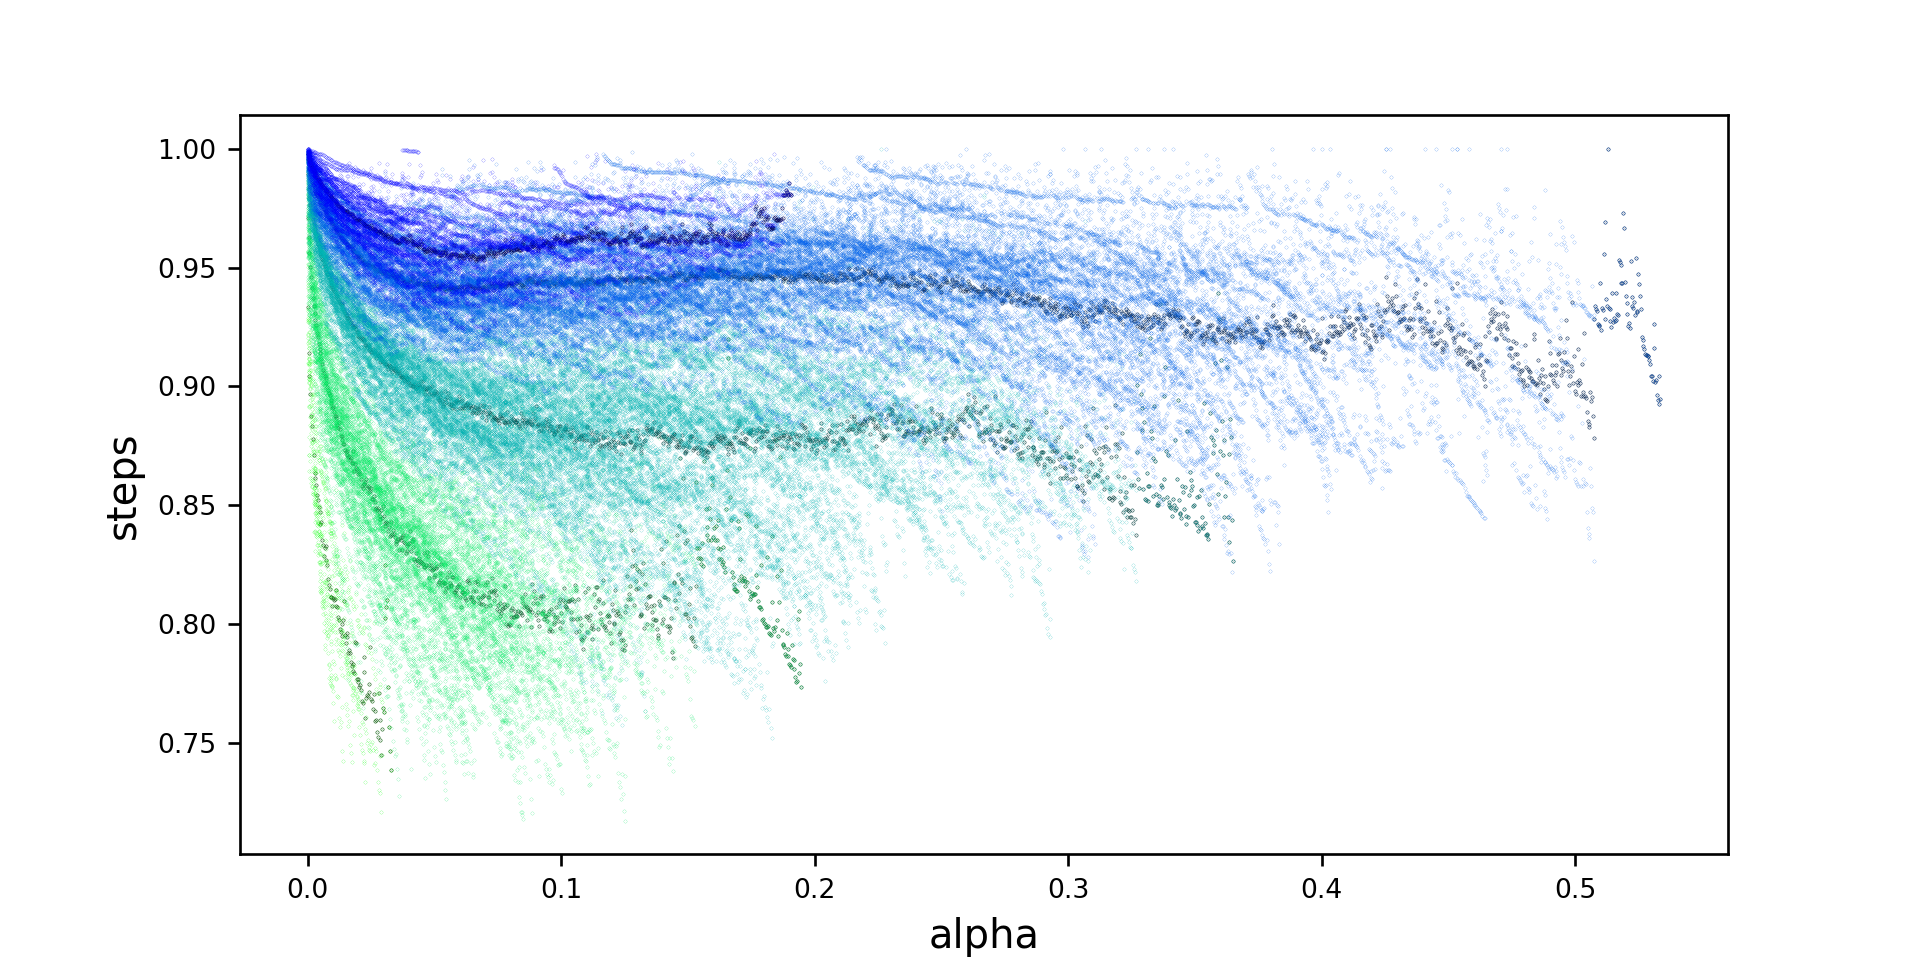
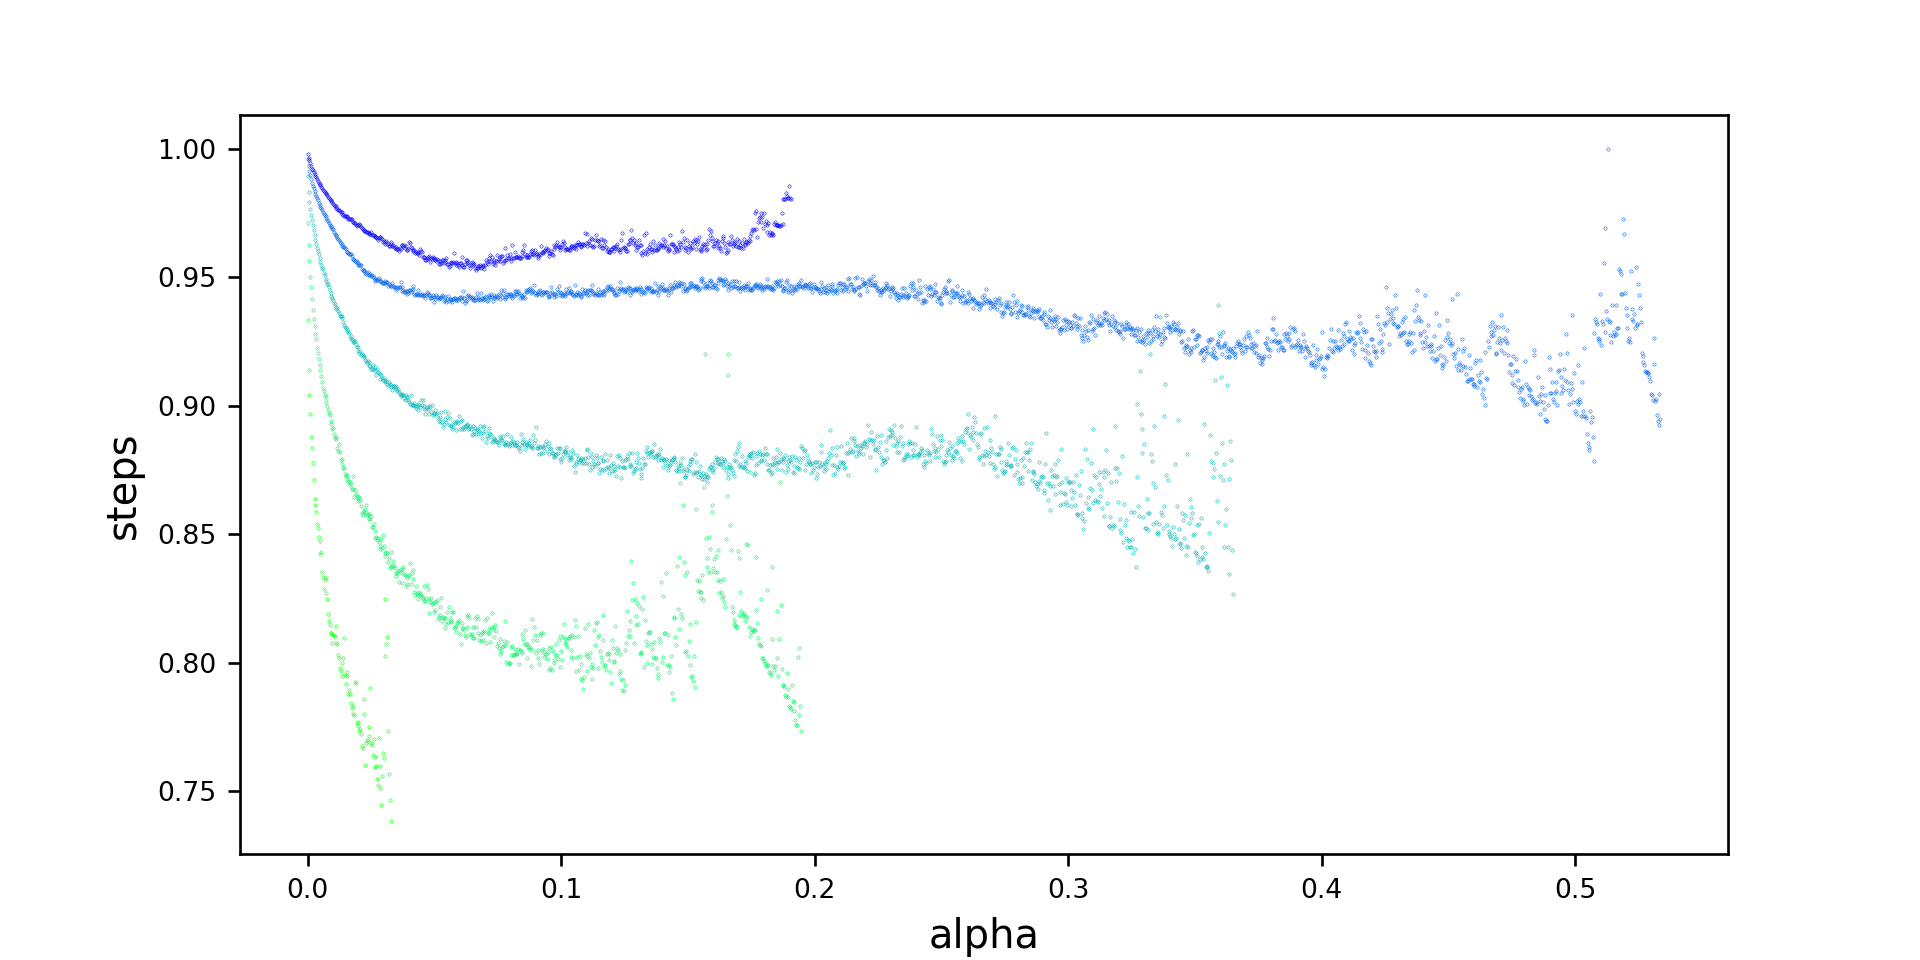
split the rainbow

diff --git a/plot/plot_survey_sigma_post.py b/plot/plot_survey_sigma_post.py
@@ -37,74 +37,120 @@ for M in range(M_min, M_max + N/10, N/10):
 
 series_count -= 1
 
+RAINBOW=False
+
 # lines per M, all together
 set_settings()
+if RAINBOW:
+  color_counter = 0
+  for M in range(M_min, M_max + N/10, N/10):
+    if series_count != 0:
+      color_ratio = float(color_counter) / series_count
+    else:
+      color_ratio = 0
+    cur_color_sample = (0., math.cos(color_ratio * math.pi/2), math.sin(color_ratio * math.pi/2))
+
+    try:
+      step_sigma = np.load('plot/survey_pre/survey_{}_step_sigma.npy'.format(M))
+      color_counter += 1
+    except Exception, e:
+      continue
+
+    points_x = []
+    points_y = []
+    # destack using numpy?
+    for i in range(len(step_sigma)):
+      for j in range(len(step_sigma[i])):
+        points_x += [float(i) / N]
+        points_y += [step_sigma[i][j]]
+
+    # plot with some color
+    # plt.plot arguments: x-values, y-values, color, width
+    plt.scatter(np.array(points_x), np.array(points_y), c=cur_color_sample, marker='.', s=0.01)
+
 color_counter = 0
 for M in range(M_min, M_max + N/10, N/10):
   if series_count != 0:
     color_ratio = float(color_counter) / series_count
   else:
     color_ratio = 0
-  cur_color_avg = (0., math.cos(color_ratio * math.pi/2)/3, math.sin(color_ratio * math.pi/2)/3)
-  cur_color_sample = (0., math.cos(color_ratio * math.pi/2), math.sin(color_ratio * math.pi/2))
-  #cur_color_avg = (0., math.cos(color_ratio * math.pi/2), math.sin(color_ratio * math.pi/2))
+
+  if RAINBOW:
+    cur_color_avg = (0., math.cos(color_ratio * math.pi/2)/3, math.sin(color_ratio * math.pi/2)/3)
+  else:
+    cur_color_avg = (0., math.cos(color_ratio * math.pi/2), math.sin(color_ratio * math.pi/2))
 
   try:
-    step_sigma = np.load('plot/survey_pre/survey_{}_step_sigma.npy'.format(M))
     avg_sigma = np.load('plot/survey_pre/survey_{}_avg_sigma.npy'.format(M))
     color_counter += 1
   except Exception, e:
     continue
 
-  points_x = []
-  points_y = []
-  # destack using numpy?
-  for i in range(len(step_sigma)):
-    for j in range(len(step_sigma[i])):
-      points_x += [float(i) / N]
-      points_y += [step_sigma[i][j]]
-
   # plot with some color
   # plt.plot arguments: x-values, y-values, color, width
   size = len(avg_sigma)
   plt.scatter(np.linspace(0, float(size - 1) / N, size), avg_sigma, c=cur_color_avg, marker='.', s=0.1)
-  plt.scatter(np.array(points_x), np.array(points_y), c=cur_color_sample, marker='.', s=0.01)
 
-plt.savefig('plot/survey_avg_sigma.png')
+if RAINBOW:
+  plt.savefig('plot/survey_avg_sigma_rainbow.png')
+else:
+  plt.savefig('plot/survey_avg_sigma.png')
 plt.show()
 
 set_settings()
+if RAINBOW:
+  color_counter = 0
+  for M in range(M_min, M_max*5 + N/10, N/10):
+    if series_count != 0:
+      color_ratio = float(color_counter) / series_count
+    else:
+      color_ratio = 0
+    cur_color_sample = (0., math.cos(color_ratio * math.pi/2), math.sin(color_ratio * math.pi/2))
+
+    try:
+      step_polar= np.load('plot/survey_pre/survey_{}_step_polar.npy'.format(M))
+      color_counter += 1
+    except Exception, e:
+      continue
+
+    points_x = []
+    points_y = []
+    # destack using numpy?
+    for i in range(len(step_polar)):
+      for j in range(len(step_polar[i])):
+        points_x += [float(i) / N]
+        points_y += [step_polar[i][j]]
+
+    # plot with some color
+    # plt.plot arguments: x-values, y-values, color, width
+    plt.scatter(np.array(points_x), np.array(points_y), c=cur_color_sample, marker='.', s=0.01)
+
 color_counter = 0
 for M in range(M_min, M_max*5 + N/10, N/10):
   if series_count != 0:
     color_ratio = float(color_counter) / series_count
   else:
     color_ratio = 0
-  cur_color_avg = (0., math.cos(color_ratio * math.pi/2)/3, math.sin(color_ratio * math.pi/2)/3)
-  cur_color_sample = (0., math.cos(color_ratio * math.pi/2), math.sin(color_ratio * math.pi/2))
-  #cur_color_avg = (0., math.cos(color_ratio * math.pi/2), math.sin(color_ratio * math.pi/2))
+
+  if RAINBOW:
+    cur_color_avg = (0., math.cos(color_ratio * math.pi/2)/3, math.sin(color_ratio * math.pi/2)/3)
+  else:
+    cur_color_avg = (0., math.cos(color_ratio * math.pi/2), math.sin(color_ratio * math.pi/2))
 
   try:
-    step_polar= np.load('plot/survey_pre/survey_{}_step_polar.npy'.format(M))
     avg_polar = np.load('plot/survey_pre/survey_{}_avg_polar.npy'.format(M))
     color_counter += 1
   except Exception, e:
     continue
 
-  points_x = []
-  points_y = []
-  # destack using numpy?
-  for i in range(len(step_polar)):
-    for j in range(len(step_polar[i])):
-      points_x += [float(i) / N]
-      points_y += [step_polar[i][j]]
-
   # plot with some color
   # plt.plot arguments: x-values, y-values, color, width
   size = len(avg_polar)
   plt.scatter(np.linspace(0, float(size - 1) / N, size), avg_polar, c=cur_color_avg, marker='.', s=0.1)
-  plt.scatter(np.array(points_x), np.array(points_y), c=cur_color_sample, marker='.', s=0.01)
 
-plt.savefig('plot/survey_avg_polar.png')
+if RAINBOW:
+  plt.savefig('plot/survey_avg_polar_rainbow.png')
+else:
+  plt.savefig('plot/survey_avg_polar.png')
 plt.show()
 
